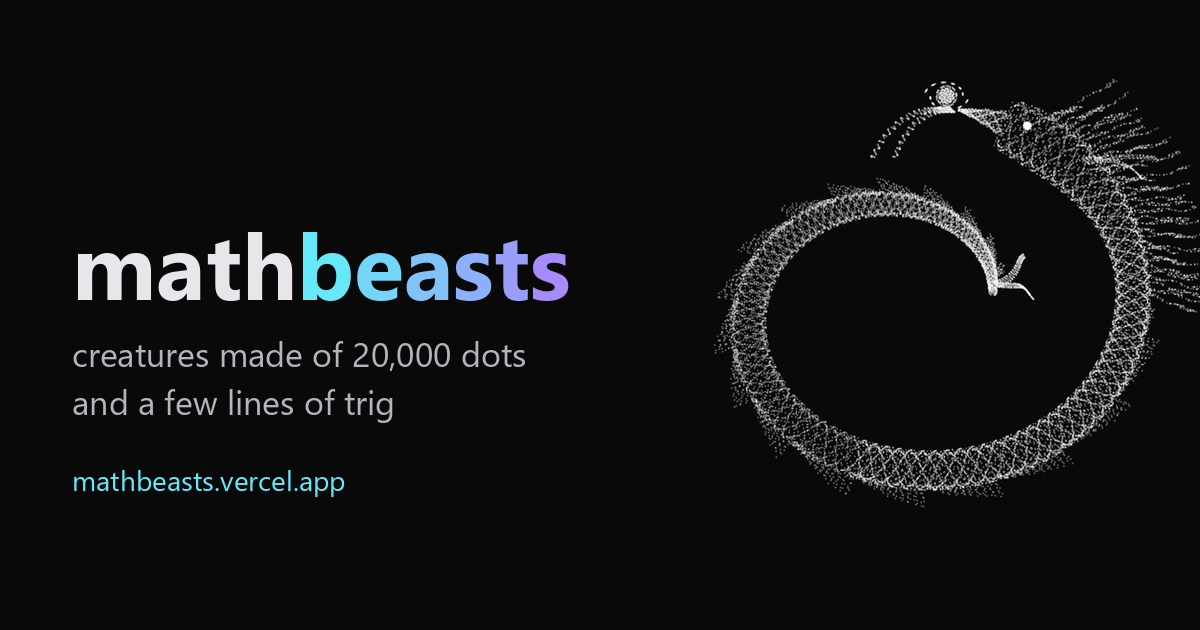
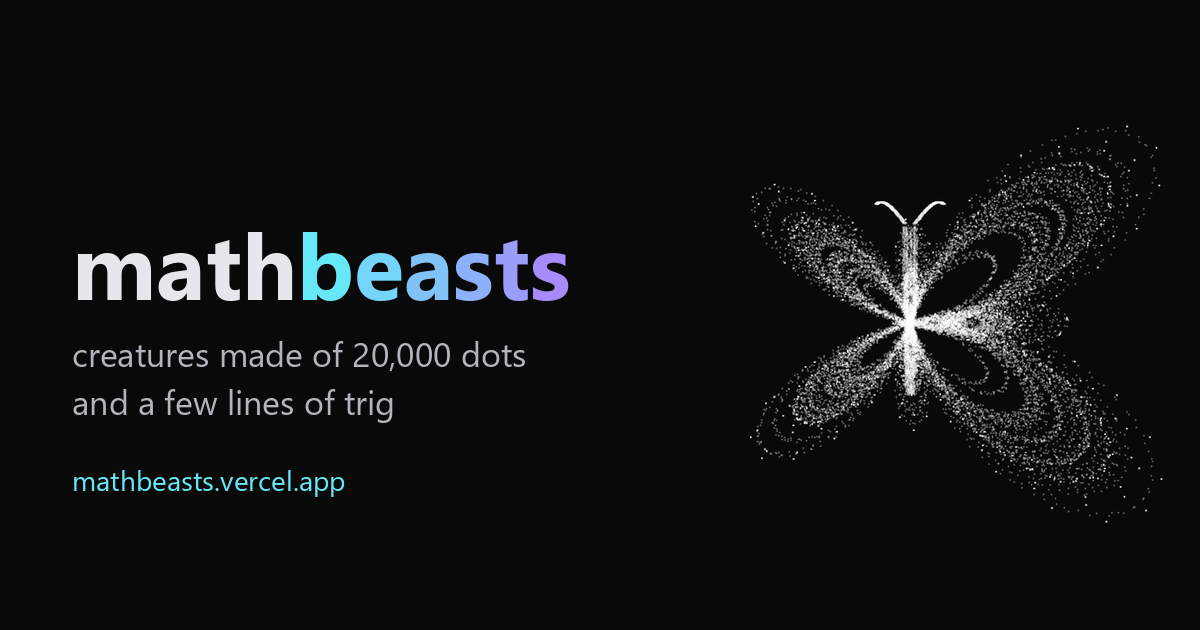
updated readme

Changed region(s): [[0.5858, 0.1206, 1.0, 0.8143], [0.74, 0.181, 0.7708, 0.2413]]

diff --git a/player.html b/player.html
@@ -335,7 +335,7 @@
 
   if (!loadShared()) {
     const initial = new URLSearchParams(location.search).get('scene');
-    const pick = names.includes(initial) ? initial : (names.includes('dragon') ? 'dragon' : names[0]);
+    const pick = names.includes(initial) ? initial : (names.includes('butterfly') ? 'butterfly' : names[0]);
     if (names.length) loadScene(pick);
     else err.textContent = 'scenes/sources.js missing — run: python tools/build_player_sources.py';
   }

diff --git a/README.md b/README.md
@@ -10,7 +10,7 @@
 </p>
 
 <p align="center">
-  <a href="scenes/dragon.gif"><img src="scenes/previews/dragon.gif" width="360" alt="particle dragon"></a>
+  <a href="scenes/butterfly.gif"><img src="scenes/previews/butterfly.gif" width="360" alt="particle butterfly"></a>
 </p>
 
 Every animal here is *one function*, evaluated 20,000 times per frame. No
